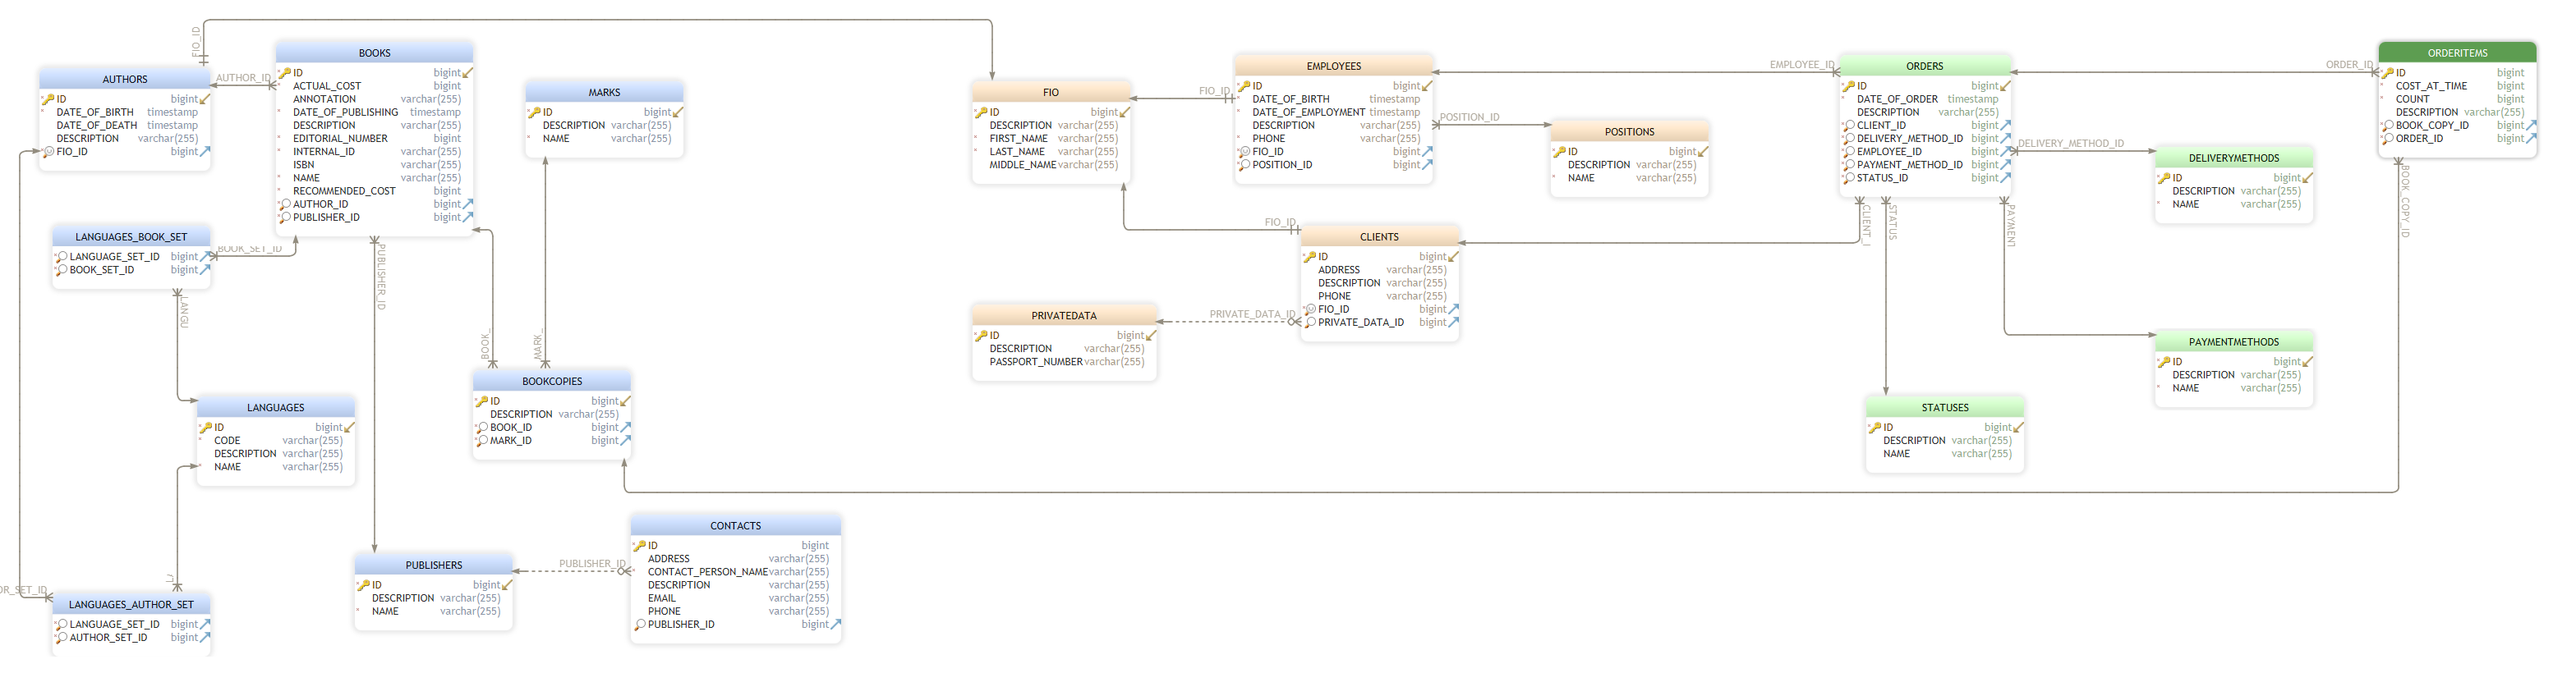
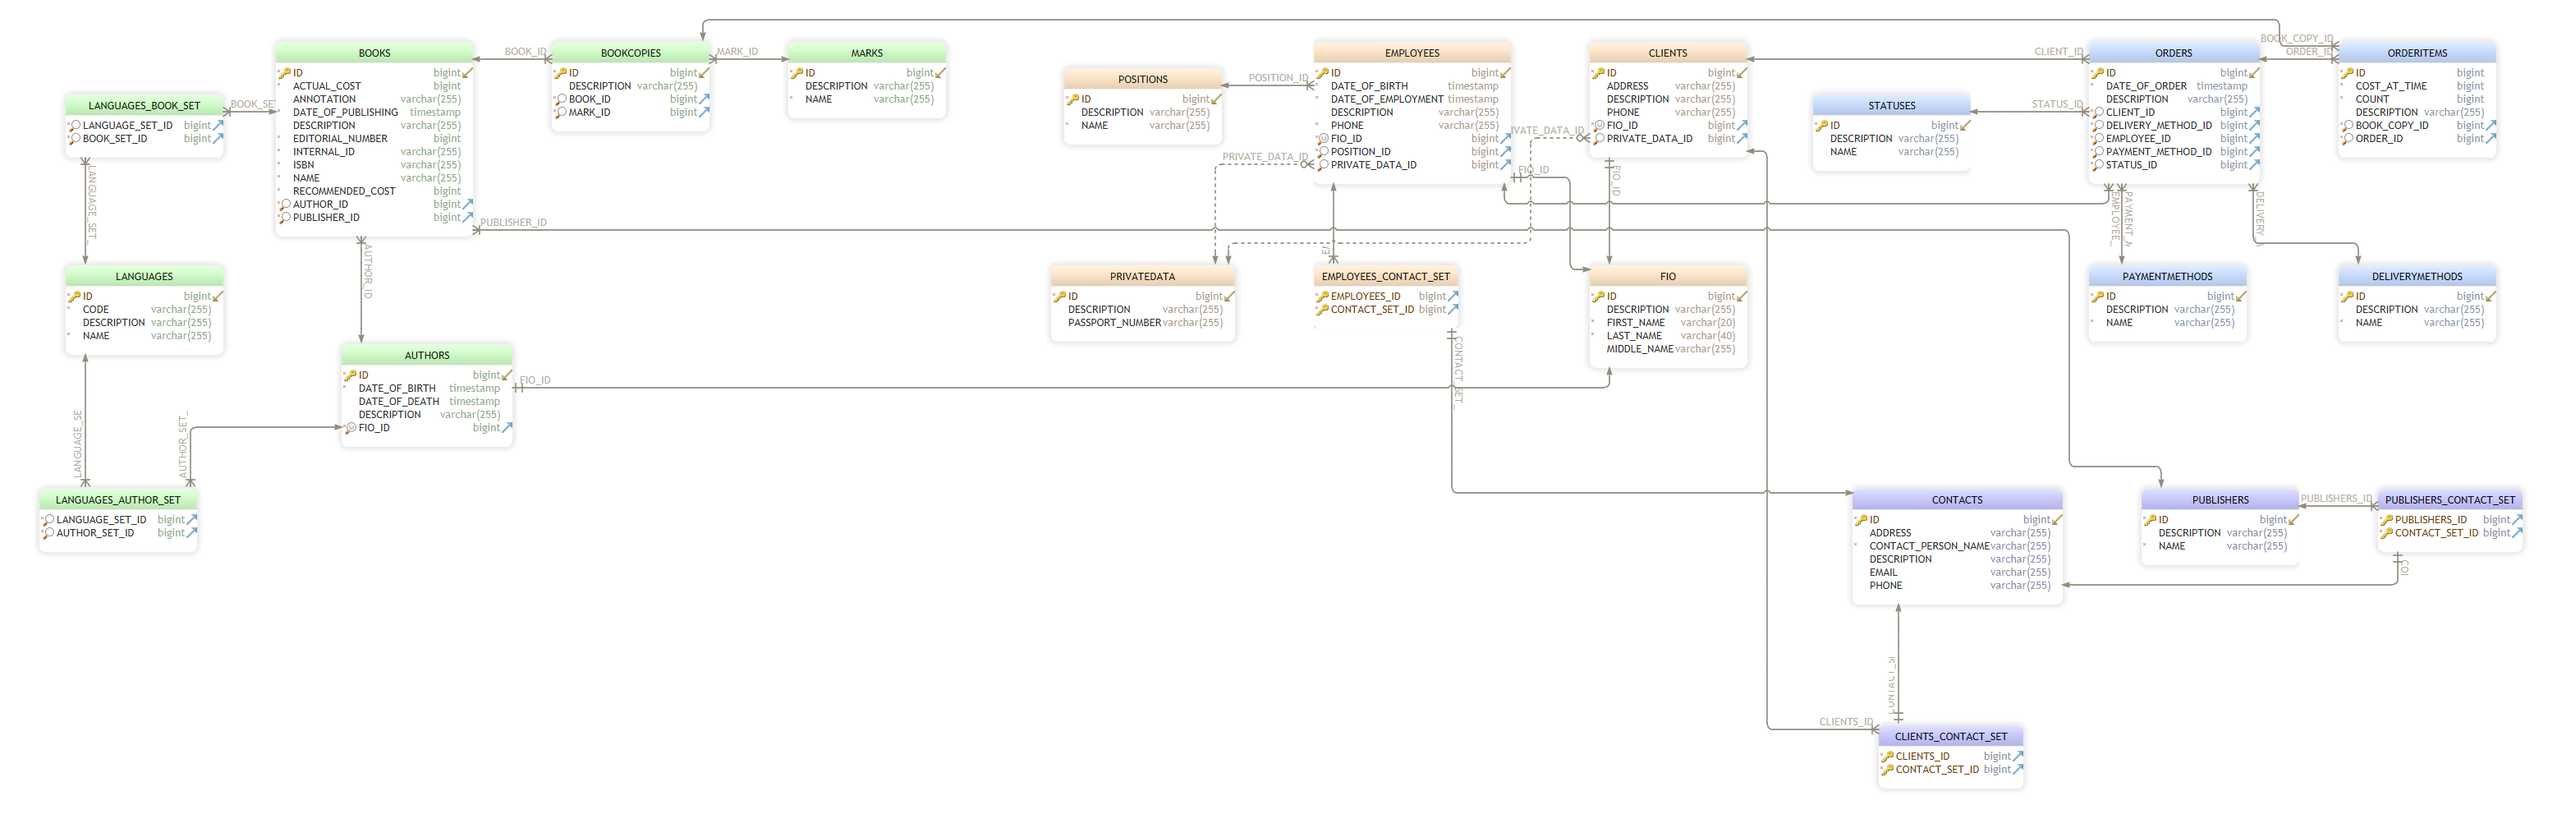
Various fixes

diff --git a/src/main/java/praktikum/svzh/bookstore/entity/Employee.java b/src/main/java/praktikum/svzh/bookstore/entity/Employee.java
@@ -31,6 +31,12 @@ public class Employee {
     @ManyToOne(optional = false)
     private Position position;
 
+    @OneToOne(cascade = CascadeType.ALL)
+    private PrivateData privateData;
+
     @OneToMany(mappedBy = "employee", cascade = CascadeType.ALL)
     private Set<Order> orderSet = new HashSet<>();
+
+    @OneToMany
+    private Set<Contact> contactSet = new HashSet<>();
 }

diff --git a/src/main/java/praktikum/svzh/bookstore/entity/FIO.java b/src/main/java/praktikum/svzh/bookstore/entity/FIO.java
@@ -13,10 +13,10 @@ public class FIO {
 
     private String description;
 
-    @Column(nullable = false)
+    @Column(nullable = false, length = 20)
     private String firstName;
 
-    @Column(nullable = false)
+    @Column(nullable = false, length = 40)
     private String lastName;
 
     private String middleName;

diff --git a/src/main/java/praktikum/svzh/bookstore/entity/Publisher.java b/src/main/java/praktikum/svzh/bookstore/entity/Publisher.java
@@ -21,6 +21,6 @@ public class Publisher {
     @OneToMany(mappedBy = "publisher", cascade = CascadeType.ALL)
     private Set<Book> bookSet = new HashSet<>();
 
-    @OneToMany(mappedBy = "publisher", cascade = CascadeType.ALL)
+    @OneToMany
     private Set<Contact> contactSet = new HashSet<>();
 }

diff --git a/src/main/java/praktikum/svzh/bookstore/entity/Client.java b/src/main/java/praktikum/svzh/bookstore/entity/Client.java
@@ -27,4 +27,7 @@ public class Client {
 
     @OneToMany(mappedBy = "client", cascade = CascadeType.ALL)
     private Set<Order> orderSet = new HashSet<>();
+
+    @OneToMany
+    private Set<Contact> contactSet = new HashSet<>();
 }

diff --git a/src/main/java/praktikum/svzh/bookstore/entity/Contact.java b/src/main/java/praktikum/svzh/bookstore/entity/Contact.java
@@ -21,7 +21,4 @@ public class Contact {
 
     @Column(nullable = false)
     private String contactPersonName;
-
-    @ManyToOne
-    private Publisher publisher;
 }
